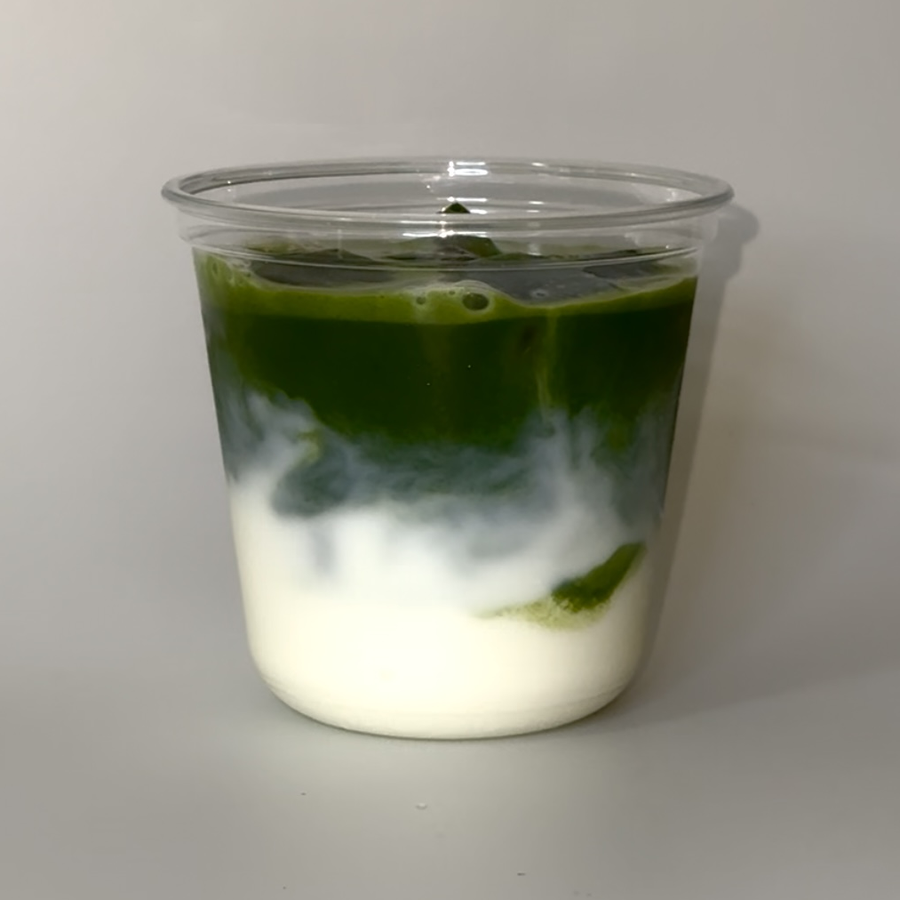
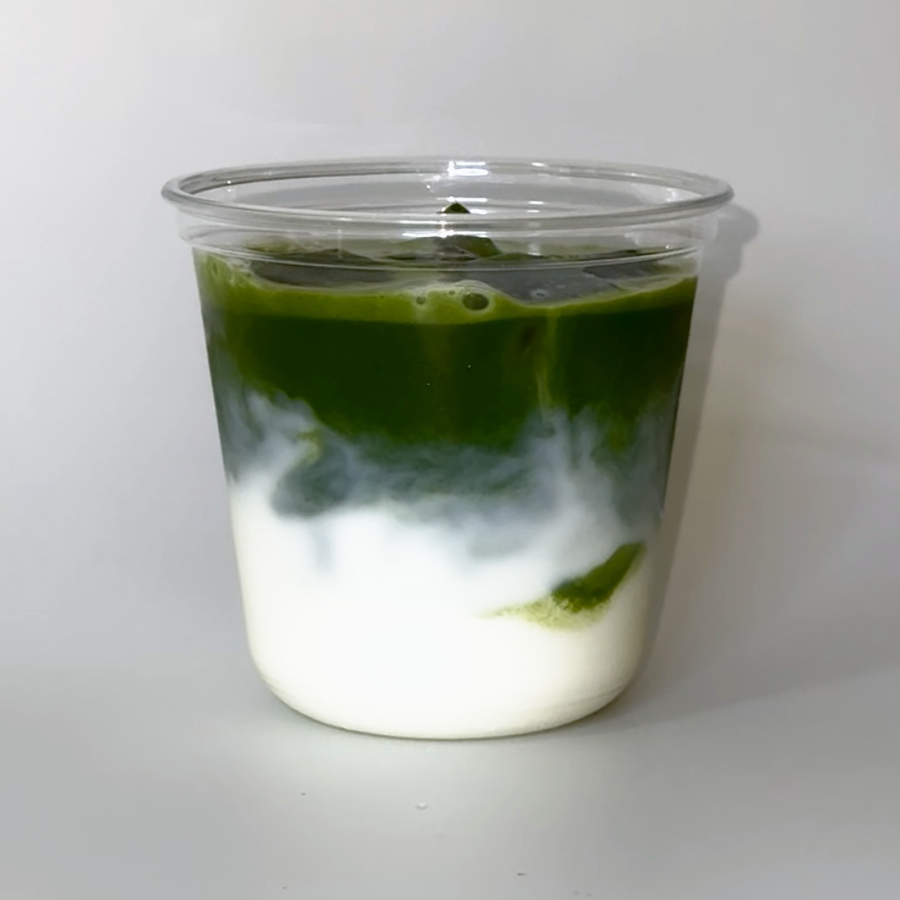
Even out lighting across menu photos

diff --git a/igokochi/src/utils/menuImage.js b/igokochi/src/utils/menuImage.js
@@ -1,6 +1,6 @@
 // Bump PHOTO_VERSION whenever menu photos are replaced in place (same filename),
 // so browsers fetch the new file instead of a cached copy.
-const PHOTO_VERSION = "3";
+const PHOTO_VERSION = "4";
 
 export const menuImageUrl = (imagePath) =>
   imagePath ? `/assets/${imagePath}?v=${PHOTO_VERSION}` : null;
